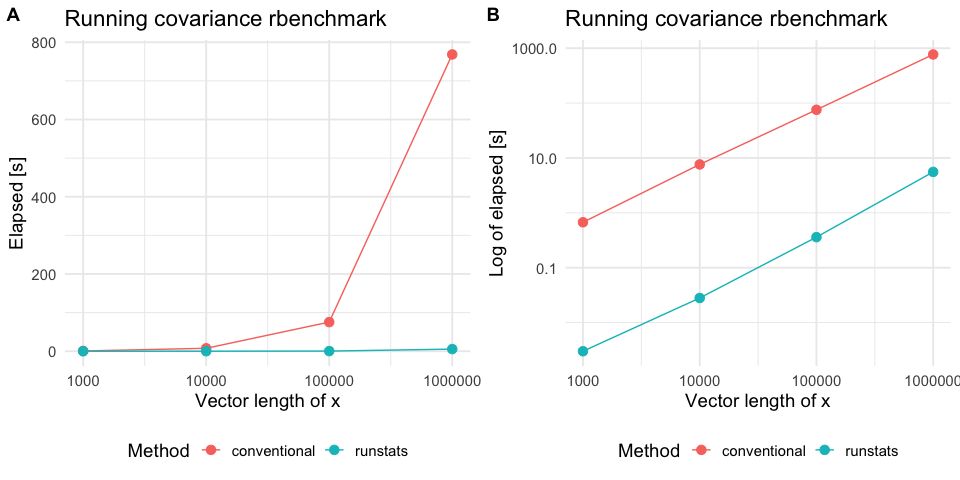
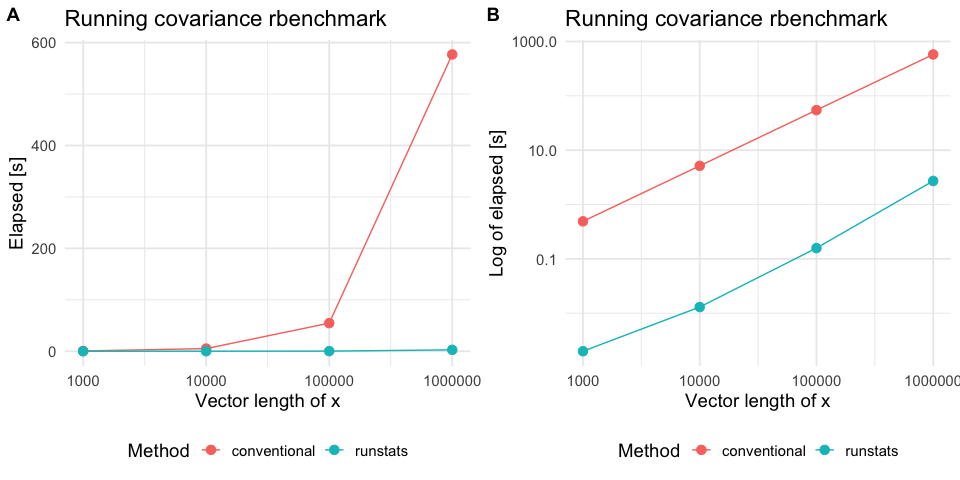
Increased speed up due to new algorithm for running sum computation. Updated benchmarks available.

diff --git a/README.md b/README.md
@@ -86,10 +86,6 @@ runstats.demo("RunningMean")
 
 ### Performance
 
-<span style="color:red">NOTE: this performance results part has been
-outdated since Nov 5, 2019 code improvements. Yet to be updated before
-pushing to CRAN.</span>
-
 We use `rbenchmark` to measure elapsed time of `RunningCov` execution,
 for different lengths of time-series `x` and fixed length of the shorter
 pattern `y`.
@@ -121,17 +117,13 @@ knitr::kable(out.df)
 
 | test     | replications | elapsed | relative | user.self | sys.self | x\_length | pattern\_length |
 | :------- | -----------: | ------: | -------: | --------: | -------: | --------: | --------------: |
-| runstats |           10 |   0.003 |        1 |     0.003 |    0.000 |      1000 |             100 |
-| runstats |           10 |   0.031 |        1 |     0.025 |    0.006 |     10000 |             100 |
-| runstats |           10 |   0.385 |        1 |     0.328 |    0.056 |    100000 |             100 |
-| runstats |           10 |   5.694 |        1 |     5.509 |    0.171 |   1000000 |             100 |
-| runstats |           10 | 126.393 |        1 |   121.007 |    4.954 |  10000000 |             100 |
+| runstats |           10 |   0.002 |        1 |     0.002 |    0.000 |      1000 |             100 |
+| runstats |           10 |   0.017 |        1 |     0.014 |    0.003 |     10000 |             100 |
+| runstats |           10 |   0.175 |        1 |     0.147 |    0.028 |    100000 |             100 |
+| runstats |           10 |   2.814 |        1 |     2.685 |    0.098 |   1000000 |             100 |
+| runstats |           10 |  50.210 |        1 |    48.222 |    1.870 |  10000000 |             100 |
 
 ##### Compare with a conventional method
-
-<span style="color:red">NOTE: this performance results part has been
-outdated since Nov 5, 2019 code improvements. Yet to be updated before
-pushing to CRAN.</span>
 
 To compare `RunStats` performance with “conventional” loop-based way of
 computing running covariance in `R`, we use `rbenchmark` package to
@@ -199,5 +191,5 @@ sessioninfo::platform_info()
 #>  collate  en_US.UTF-8                 
 #>  ctype    en_US.UTF-8                 
 #>  tz       America/New_York            
-#>  date     2019-11-05
+#>  date     2019-11-14
 ```

diff --git a/NEWS.md b/NEWS.md
@@ -1,3 +1,7 @@
 # runstats 1.0.1
 
 * Added a `NEWS.md` file to track changes to the package.
+
+# runstats 1.1.0
+
+* Increased speed up due to new algorithm for running sum computation. Updated benchmarks available. 
